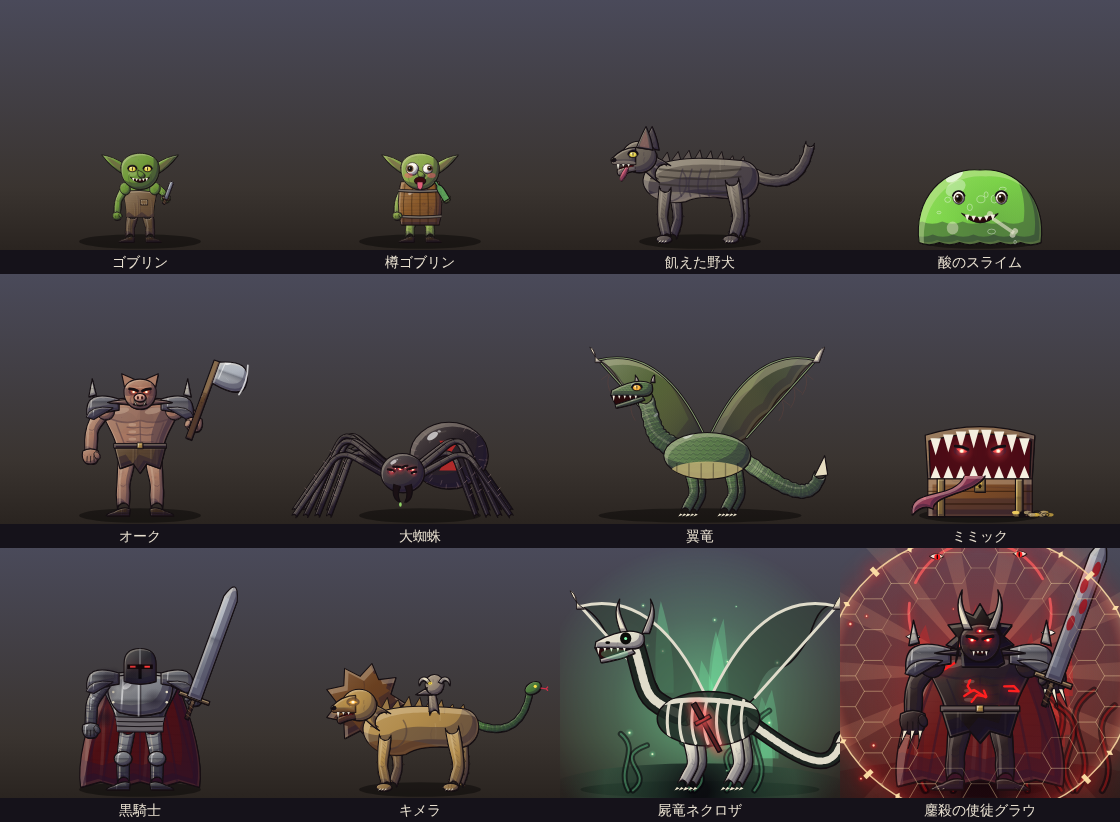
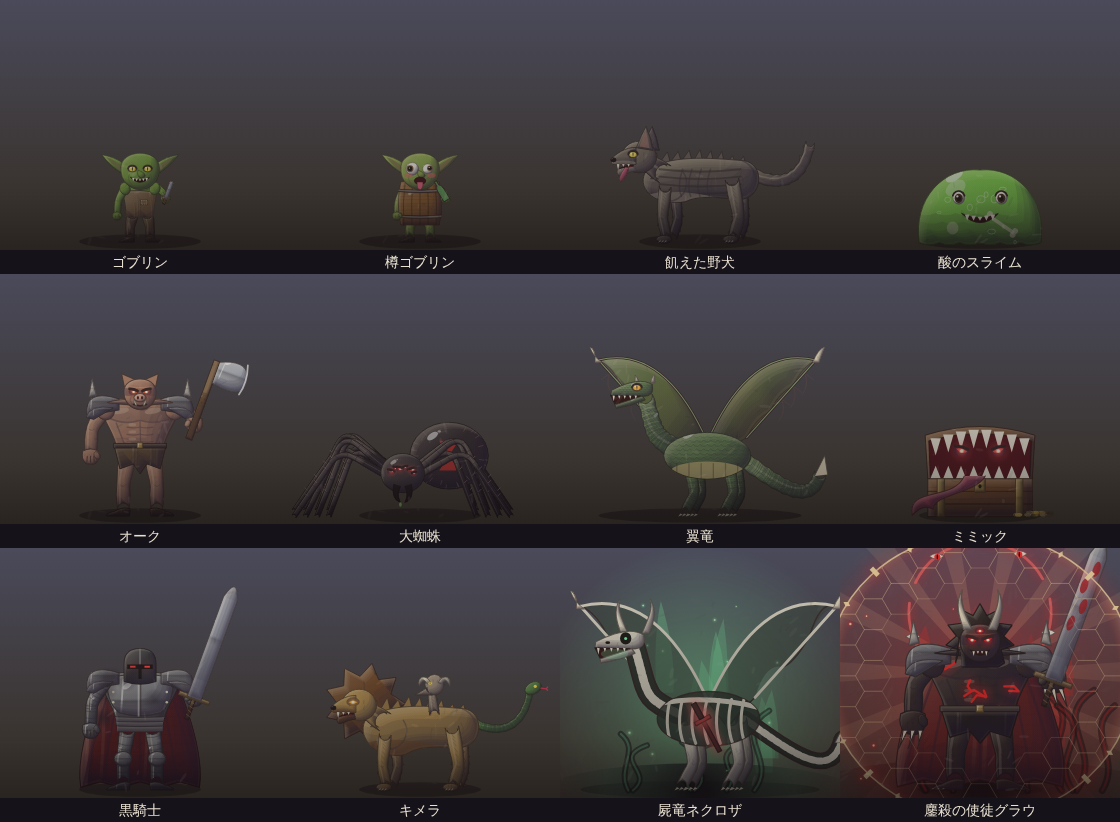
V3：絵画の挿絵の調子に寄せる（柔らかい影・くすんだ色・少し斜めの顔）
- 影の帯を薄く重ねてぼかし、セル画のくっきりした境目をやめる
- 輪郭は黒でなく、その部分の色を暗くした細い線に
- 仕上げに彩度を落として暖かい灰に寄せ、筆のにじみを重ねる。モンスターは足元から闇に沈む
- 人物は目を控えめにし、顔を少し右へ向ける（奥の目を小さく、奥の頬に影）

Claude-Session: https://claude.ai/code/session_01UgmRGEWXKYBTzGzTLKtqSh

diff --git a/src/ui/art_people.js b/src/ui/art_people.js
@@ -20,7 +20,7 @@
   const mix = (a, b, t) => { const x = hex(a), y = hex(b); return "#" + x.map((v, i) => Math.round(v + (y[i] - v) * t).toString(16).padStart(2, "0")).join(""); };
   const rgba = (c, a) => { const [r, g, b] = hex(c); return `rgba(${r},${g},${b},${a})`; };
   const pickR = (R, a) => a[Math.floor(R() * a.length)];
-  const INK = "#1a1418";
+  const INK = "#2a1c1c"; // 輪郭の色（真っ黒にせず、焦げ茶で柔らかく）
   const TAU = Math.PI * 2;
 
   // ---------------------------------------------------------------- 部品の色
@@ -201,21 +201,24 @@
     ctx.save(); ctx.translate(-dx, -dy); path(); ctx.restore();
     ctx.fillStyle = style; ctx.fill("evenodd");
   }
+  // 柔らかい影：ずらし幅を変えた帯を薄く重ね、境目をぼかす（絵の具を重ねたように）
+  function soft(ctx, path, dx, dy, col, a) { for (const k of [0.35, 0.65, 1.0, 1.4]) band(ctx, path, dx * k, dy * k, rgba(col, a / 3)); }
   function paint(ctx, fill, lw, path) {
     const c = fill && fill._c;
     const solid = !!c || (typeof fill === "string" && fill[0] === "#");
-    if (lw && solid) { ctx.save(); ctx.translate(lw * 0.45, lw * 0.6); ctx.beginPath(); path(); ctx.fillStyle = INK; ctx.fill(); ctx.restore(); }
+    const base0 = c || (solid ? fill : null), edge = base0 ? mix(base0, "#140a0c", 0.7) : INK;
+    if (lw && solid) { ctx.save(); ctx.translate(lw * 0.3, lw * 0.4); ctx.beginPath(); path(); ctx.fillStyle = rgba(edge, 0.5); ctx.fill(); ctx.restore(); }
     ctx.beginPath(); path(); ctx.fillStyle = fill; ctx.fill();
     if (c) {
       const d = fill._d;
       ctx.save(); ctx.beginPath(); path(); ctx.clip();
-      band(ctx, path, d * 0.9, d * 0.7, rgba(mix(c, SHADOW, 0.55), 0.5));
-      band(ctx, path, d * 0.3, d * 0.25, rgba(mix(c, SHADOW, 0.75), 0.4));
-      band(ctx, path, d * 0.1, d * 0.08, rgba(mix(c, "#e0a080", 0.5), 0.18));
-      band(ctx, path, -d * 0.3, -d * 0.3, rgba(mix(c, LIGHT, 0.6), 0.35));
+      soft(ctx, path, d * 0.9, d * 0.7, mix(c, SHADOW, 0.55), 0.55);
+      soft(ctx, path, d * 0.3, d * 0.25, mix(c, SHADOW, 0.75), 0.35);
+      band(ctx, path, d * 0.08, d * 0.06, rgba(mix(c, "#e0a080", 0.5), 0.14));
+      soft(ctx, path, -d * 0.3, -d * 0.3, mix(c, LIGHT, 0.55), 0.35);
       ctx.restore();
     }
-    if (lw) { ctx.lineWidth = lw * (solid ? 0.8 : 1); ctx.strokeStyle = INK; ctx.lineJoin = "round"; ctx.beginPath(); path(); ctx.stroke(); }
+    if (lw) { ctx.lineWidth = lw * (solid ? 0.65 : 0.85); ctx.strokeStyle = rgba(edge, 0.8); ctx.lineJoin = "round"; ctx.beginPath(); path(); ctx.stroke(); }
   }
   function line(ctx, c, w, pts) {
     ctx.beginPath(); ctx.moveTo(pts[0], pts[1]);
@@ -693,12 +696,13 @@
 
   // ---------------------------------------------------------------- 顔
   // 目：白目（上まぶたの影つき）→ 虹彩（縁が暗く下が明るい）→ 瞳 → 光の点二つ → 太い上まぶた（女はまつ毛）→ 下まぶた → 二重の線
-  function eyePair(ctx, L, cx, ey, sp, er, U) {
+  function eyePair(ctx, L, cx, ey, sp, er0, U) {
     const lw = U * 0.008;
     const female = L.sex === "女";
     const slitPupil = L.beast === "cat" || L.beast === "fox" || L.eyes === "glow";
     [-1, 1].forEach((s) => {
-      const ex = cx + s * sp;
+      // 顔は少しだけ右を向く：奥（右）の目は小さく、内へ寄る
+      const er = er0 * (s > 0 ? 0.9 : 1), ex = cx + s * sp * (s > 0 ? 0.88 : 1);
       if (s === 1 && L.marks.includes("eyepatch")) return;
       const iris = s === 1 && L.iris2 ? L.iris2 : L.iris;
       const st = L.eyes;
@@ -768,12 +772,13 @@
     });
   }
   // 眉：筆で払ったような形（内側が太く、外へ細く）
-  function browPair(ctx, L, cx, ey, sp, er, U) {
+  function browPair(ctx, L, cx, ey, sp0, er, U) {
     const th = U * (L.sex === "女" ? 0.012 : 0.02) * (L.band === "old" ? 1.25 : 1) * (L.band === "child" ? 0.8 : 1);
     const c = L.band === "old" ? mix(L.hair, "#ffffff", 0.2) : mix(L.hair, "#000000", 0.3);
     const by = ey - er * (L.eyes === "round" ? 2.05 : 1.85);
     const b = L.brows;
     [-1, 1].forEach((s) => {
+      const sp = sp0 * (s > 0 ? 0.88 : 1);
       const ix = cx + s * sp * 0.4, ox = cx + s * sp * 1.5;
       const iy = by + (b === "angry" ? er * 0.6 : b === "worried" ? -er * 0.45 : b === "raised" ? -er * 0.3 : 0);
       const oy = by + (b === "worried" ? er * 0.3 : b === "angry" ? -er * 0.15 : b === "raised" && s === 1 ? -er * 0.5 : 0);
@@ -1052,33 +1057,53 @@
     if (L.ears !== "none") sideEars(ctx, L, cx, ey, rx, ry, U);
     // 顔
     paint(ctx, rgrad(ctx, cx, cy, rx, L.skin), U * 0.009, () => facePath(ctx, cx, cy, rx, ry, jaw));
-    const sp = rx * 0.42, er = rx * (child ? 0.22 : 0.175) * (L.sex === "女" ? 1.06 : 1);
+    const sp = rx * 0.41, er = rx * (child ? 0.2 : 0.158) * (L.sex === "女" ? 1.05 : 1);
+    const fx = cx + rx * 0.07; // 顔の向き（目・鼻・口を少し右へ寄せる）
     const my = cy + ry * (child ? 0.62 : 0.66), mw = rx * (child ? 0.22 : 0.28);
     // 顔の起伏：前髪の落とす影、頬の赤み、あごの下の影
     ctx.save(); ctx.beginPath(); facePath(ctx, cx, cy, rx, ry, jaw); ctx.clip();
     if (L.hairStyle !== "bald") { const gh = ctx.createLinearGradient(0, cy - ry, 0, cy - ry * 0.25); gh.addColorStop(0, rgba(mix(L.skin, SHADOW, 0.6), 0.55)); gh.addColorStop(1, rgba(mix(L.skin, SHADOW, 0.6), 0)); ctx.fillStyle = gh; ctx.fillRect(cx - rx * 1.2, cy - ry * 1.1, rx * 2.4, ry * 0.9); }
     for (const s2 of [-1, 1]) { const gc = ctx.createRadialGradient(cx + s2 * rx * 0.55, ey + er * 2, 0, cx + s2 * rx * 0.55, ey + er * 2, rx * 0.35); gc.addColorStop(0, rgba("#e06a5a", L.band === "child" ? 0.22 : 0.13)); gc.addColorStop(1, rgba("#e06a5a", 0)); ctx.fillStyle = gc; ctx.fillRect(cx - rx * 1.2, cy - ry, rx * 2.4, ry * 2.2); }
+    // 奥（右）の頬は光から外れる
+    const gs = ctx.createLinearGradient(cx + rx * 0.35, 0, cx + rx * 1.05, 0); gs.addColorStop(0, rgba(mix(L.skin, SHADOW, 0.5), 0)); gs.addColorStop(1, rgba(mix(L.skin, SHADOW, 0.5), 0.45));
+    ctx.fillStyle = gs; ctx.fillRect(cx, cy - ry * 1.2, rx * 1.2, ry * 2.4);
     ctx.restore();
     if (L.beast) beastCheeks(ctx, L, cx, cy, rx, ry, U);
     marksUnder(ctx, L, cx, cy, rx, ry, ey, sp, er, U, jaw);
     beard(ctx, L, cx, cy, rx, ry, U, jaw);
-    eyePair(ctx, L, cx, ey, sp, er, U);
-    browPair(ctx, L, cx, ey, sp, er, U);
-    noseDraw(ctx, L, cx, ey, er, cy + ry * (child ? 0.38 : 0.42), rx, U);
-    mouthDraw(ctx, L, cx, my, mw, U);
+    eyePair(ctx, L, fx, ey, sp, er, U);
+    browPair(ctx, L, fx, ey, sp, er, U);
+    noseDraw(ctx, L, fx + rx * 0.02, ey, er, cy + ry * (child ? 0.38 : 0.42), rx, U);
+    mouthDraw(ctx, L, fx, my, mw, U);
     marksOver(ctx, L, cx, cy, rx, ry, ey, sp, er, my, mw, U);
     if (L.marks.includes("earring")) { ctx.strokeStyle = "#e0c050"; ctx.lineWidth = U * 0.006; ctx.beginPath(); ellipse(ctx, cx - rx * 1.0, ey + ry * 0.28, rx * 0.06, rx * 0.08); ctx.stroke(); }
     hairFront(ctx, L, cx, cy, rx, ry, U);
     if (L.beast) beastEars(ctx, L, cx, cy, rx, ry, U);
     headwear(ctx, L, cx, cy, rx, ry, U);
     if (L.marks.includes("foxmask")) foxMask(ctx, cx - rx * 0.78, cy - ry * 0.72, rx * 0.5, U);
-    // 周りを暗く
-    const v = ctx.createRadialGradient(cx, y + h * 0.45, h * 0.35, cx, y + h * 0.5, h * 0.8);
-    v.addColorStop(0, "rgba(0,0,0,0)"); v.addColorStop(1, "rgba(0,0,0,.35)");
-    ctx.fillStyle = v; ctx.fillRect(x, y, w, h);
+    finish(ctx, L, x, y, w, h);
     ctx.restore();
   };
 
+  // 仕上げ：色をくすませ（彩度を落として暖かい灰に寄せる）、筆の跡を重ね、周りを暗くする（絵画の挿絵のように）
+  function finish(ctx, L, x, y, w, h) {
+    ctx.save();
+    ctx.globalCompositeOperation = "saturation"; ctx.globalAlpha = 0.32; ctx.fillStyle = "#807870"; ctx.fillRect(x, y, w, h);
+    ctx.globalCompositeOperation = "multiply"; ctx.globalAlpha = 0.35; ctx.fillStyle = "#e8d8bc"; ctx.fillRect(x, y, w, h);
+    ctx.globalCompositeOperation = "source-over"; ctx.globalAlpha = 1;
+    const R = rng((L.seed || "p") + ":brush");
+    ctx.lineCap = "round";
+    for (let i = 0; i < 220; i++) {
+      // 筆のひと押し（向きのばらつく、にじんだ短い楕円）
+      const px = x + R() * w, py = y + R() * h, len = h * (0.012 + R() * 0.025), a = -0.7 + (R() - 0.5) * 2.2;
+      ctx.fillStyle = i % 2 ? "rgba(255,244,220,.04)" : "rgba(30,18,20,.05)";
+      ctx.beginPath(); ellipse(ctx, px, py, len, h * (0.004 + R() * 0.006), a); ctx.fill();
+    }
+    const v = ctx.createRadialGradient(x + w * 0.45, y + h * 0.4, h * 0.3, x + w * 0.5, y + h * 0.5, h * 0.82);
+    v.addColorStop(0, "rgba(0,0,0,0)"); v.addColorStop(1, "rgba(14,8,10,.5)");
+    ctx.fillStyle = v; ctx.fillRect(x, y, w, h);
+    ctx.restore();
+  }
   // 仲間になった魔物など、人でないもの（モンスターの絵を胸から上に切り取る）
   function paintFoe(ctx, x, y, w, h, who) {
     const L = { bg: "#5a6a4a", kind: "foe", iris: "#ff3a3a", seed: "foe" };

diff --git a/src/ui/art_monsters.js b/src/ui/art_monsters.js
@@ -16,7 +16,7 @@
   const mix = (a, b, t) => { const x = hex(a), y = hex(b); return "#" + x.map((v, i) => Math.round(v + (y[i] - v) * t).toString(16).padStart(2, "0")).join(""); };
   const rgba = (c, a) => { const [r, g, b] = hex(c); return `rgba(${r},${g},${b},${a})`; };
   const pickR = (R, a) => a[Math.floor(R() * a.length)];
-  const INK = "#140e12"; // 輪郭の色
+  const INK = "#2a1c1c"; // 輪郭の色（真っ黒にせず、焦げ茶で柔らかく） // 輪郭の色
   const TAU = Math.PI * 2;
 
   // ---------------------------------------------------------------- 決めてある見た目（今いる敵）
@@ -138,6 +138,8 @@
     ctx.save(); ctx.translate(-dx, -dy); path(); ctx.restore();
     ctx.fillStyle = style; ctx.fill("evenodd");
   }
+  // 柔らかい影：ずらし幅を変えた帯を薄く重ね、境目をぼかす（絵の具を重ねたように）
+  function soft(ctx, path, dx, dy, col, a) { for (const k of [0.35, 0.65, 1.0, 1.4]) band(ctx, path, dx * k, dy * k, rgba(col, a / 3)); }
   // 決まった種の小さな乱数（質感の描き込み用。G.rand は使わない）
   function rngN(n) { let s = Math.floor(Math.abs(n)) | 0; return () => { s = (Math.imul(s ^ (s >>> 15), 2246822507) + 0x9e3779b9) | 0; return ((s >>> 0) % 10007) / 10007; }; }
   // 質感の描き込み（形で切り抜いた中で呼ぶ）
@@ -208,21 +210,22 @@
   function paint(ctx, fill, lw, path) {
     const vol = fill && fill.sh;
     const solid = vol || (typeof fill === "string" && fill[0] === "#");
-    if (lw && solid) { ctx.save(); ctx.translate(lw * 0.45, lw * 0.65); ctx.beginPath(); path(); ctx.fillStyle = INK; ctx.fill(); ctx.restore(); }
+    const base0 = vol ? fill.c : solid ? fill : null, edge = base0 ? mix(base0, "#120a0c", 0.72) : INK;
+    if (lw && solid) { ctx.save(); ctx.translate(lw * 0.35, lw * 0.5); ctx.beginPath(); path(); ctx.fillStyle = rgba(edge, 0.6); ctx.fill(); ctx.restore(); }
     ctx.beginPath(); path(); ctx.fillStyle = vol ? fillOf(ctx, fill) : fill; ctx.fill();
     if (vol) {
       const { r, c, t } = fill, d = r * 0.3;
       ctx.save(); ctx.beginPath(); path(); ctx.clip();
       if (t) texture(ctx, fill, lw || 1);
-      band(ctx, path, d * 0.95, d * 1.15, rgba(mix(c, SHADOW, 0.6), 0.62));            // 影
-      band(ctx, path, d * 0.36, d * 0.44, rgba(mix(c, SHADOW, 0.8), 0.55));           // いちばん暗いところ
-      band(ctx, path, d * 0.12, d * 0.14, rgba(mix(c, "#c89a70", 0.5), 0.22));          // 照り返し
-      band(ctx, path, -d * 0.3, -d * 0.36, rgba(mix(c, LIGHT, 0.65), 0.42));             // 光の当たる縁
+      soft(ctx, path, d * 0.95, d * 1.15, mix(c, SHADOW, 0.6), 0.7);            // 影
+      soft(ctx, path, d * 0.36, d * 0.44, mix(c, SHADOW, 0.8), 0.5);            // いちばん暗いところ
+      band(ctx, path, d * 0.1, d * 0.12, rgba(mix(c, "#b89878", 0.5), 0.16));    // 照り返し
+      soft(ctx, path, -d * 0.3, -d * 0.36, mix(c, LIGHT, 0.55), 0.4);           // 光の当たる側
       const gl = GLOSSY[t] || 0;
       if (gl) { ctx.fillStyle = rgba("#ffffff", 0.35 + gl * 0.3); ctx.beginPath(); ellipse(ctx, fill.x - r * 0.42, fill.y - r * 0.5, r * 0.16, r * 0.08, -0.6); ctx.fill(); ctx.fillStyle = rgba("#ffffff", 0.5 * gl); ctx.beginPath(); ellipse(ctx, fill.x - r * 0.25, fill.y - r * 0.62, r * 0.04, r * 0.03); ctx.fill(); }
       ctx.restore();
     }
-    if (lw) { ctx.lineWidth = lw * (solid ? 0.8 : 1); ctx.strokeStyle = INK; ctx.lineJoin = "round"; ctx.beginPath(); path(); ctx.stroke(); }
+    if (lw) { ctx.lineWidth = lw * (solid ? 0.7 : 0.9); ctx.strokeStyle = rgba(edge, 0.85); ctx.lineJoin = "round"; ctx.beginPath(); path(); ctx.stroke(); }
   }
   // 毛の房（手足や体の縁から外へ飛び出す毛）
   function furEdge(ctx, pts, w, c, lw) {
@@ -1238,11 +1241,29 @@
       const sc = sp.getContext("2d");
       sc.setTransform(k, 0, 0, k, -(x - hw) * k, 0);
       paintMonsterNow(sc, x, base, s, f);
+      finishSprite(sc, x - hw, hw * 2, base, s, key);
       CACHE.set(key, sp);
       if (CACHE.size > CACHE_MAX) CACHE.delete(CACHE.keys().next().value);
     } else { CACHE.delete(key); CACHE.set(key, sp); }
     ctx.drawImage(sp, x - hw, 0, hw * 2, hh);
   };
+  // 仕上げ（別の canvas に描いた絵だけ）：色をくすませ、筆の跡を重ね、足元から闇に沈める。描いた所だけに効く（source-atop）
+  function finishSprite(ctx, x0, w, base, s, key) {
+    ctx.save();
+    ctx.globalCompositeOperation = "source-atop";
+    ctx.fillStyle = "rgba(92,82,74,.24)"; ctx.fillRect(x0, 0, w, base + s);
+    const g = ctx.createLinearGradient(0, base - s * 0.95, 0, base);
+    g.addColorStop(0, "rgba(10,6,10,0)"); g.addColorStop(0.7, "rgba(10,6,10,.28)"); g.addColorStop(1, "rgba(10,6,10,.6)");
+    ctx.fillStyle = g; ctx.fillRect(x0, base - s, w, s * 1.2);
+    const R = rngN(key.length * 131 + s * 7);
+    ctx.lineCap = "round";
+    for (let i = 0; i < 380; i++) {
+      const px = x0 + R() * w, py = base - R() * s * 1.6, len = s * (0.012 + R() * 0.03), a = -0.75 + (R() - 0.5) * 2.2;
+      ctx.fillStyle = i % 2 ? "rgba(255,240,215,.05)" : "rgba(20,12,16,.07)";
+      ctx.beginPath(); ellipse(ctx, px, py, len, s * (0.004 + R() * 0.006), a); ctx.fill();
+    }
+    ctx.restore();
+  }
   function paintMonsterNow(ctx, x, base, s, f) {
     let e = (G.data && G.data.ENEMIES && G.data.ENEMIES[f.id]) || { shape: f.shape, eye: f.eye, boss: f.boss };
     // 出来事の絵（art_people.js）は、敵の見た目を少し変えて描ける（{ id, look }。look が敵のデータの look に重なる）
